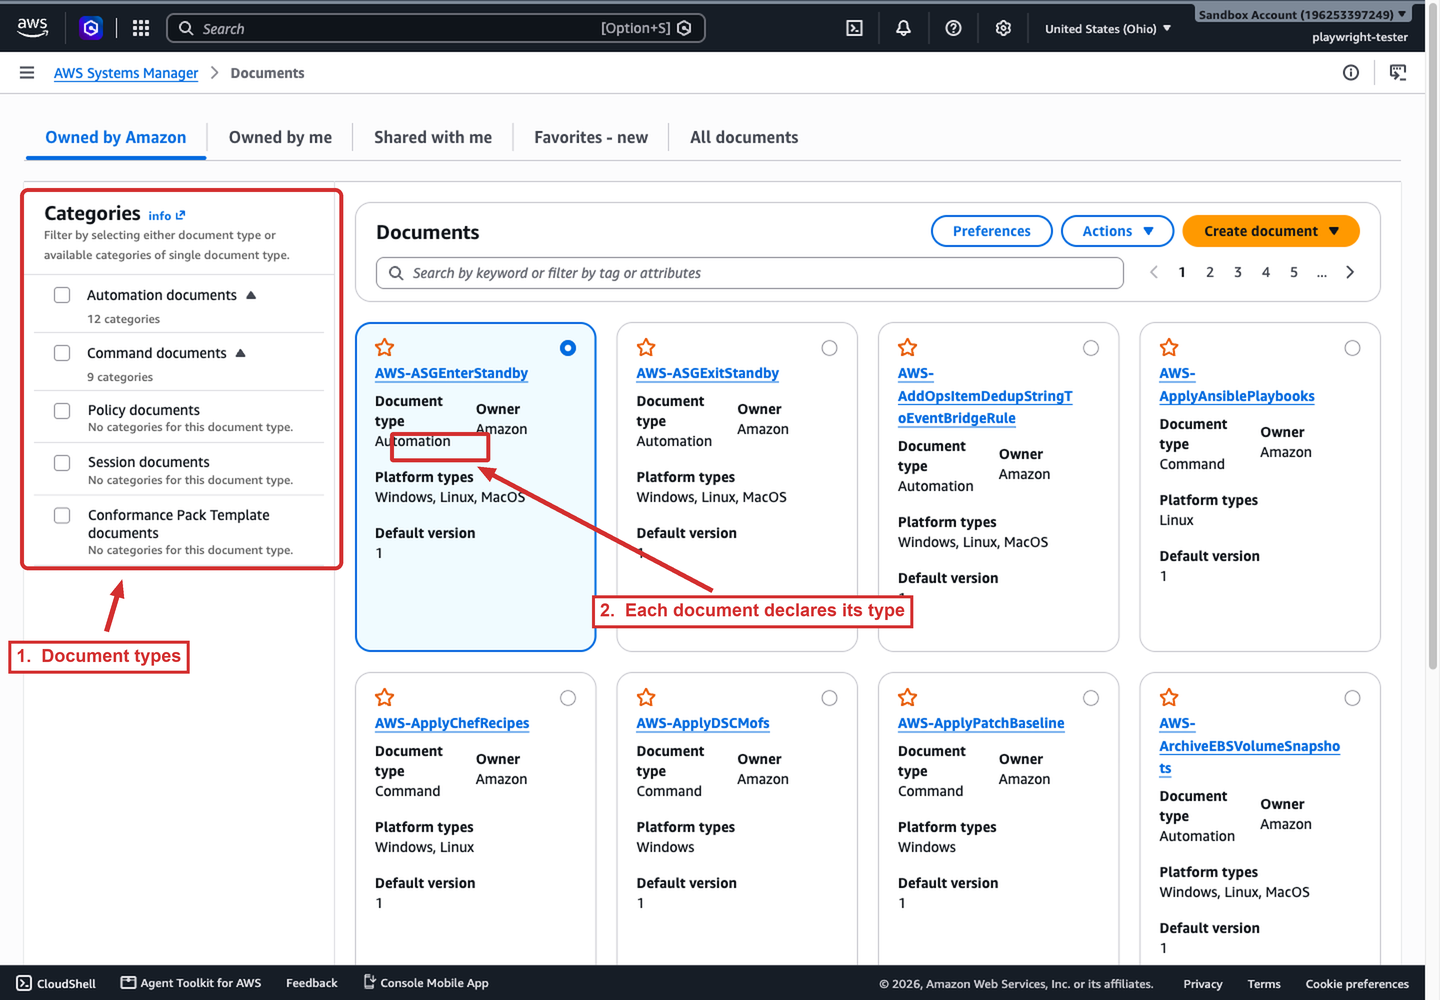
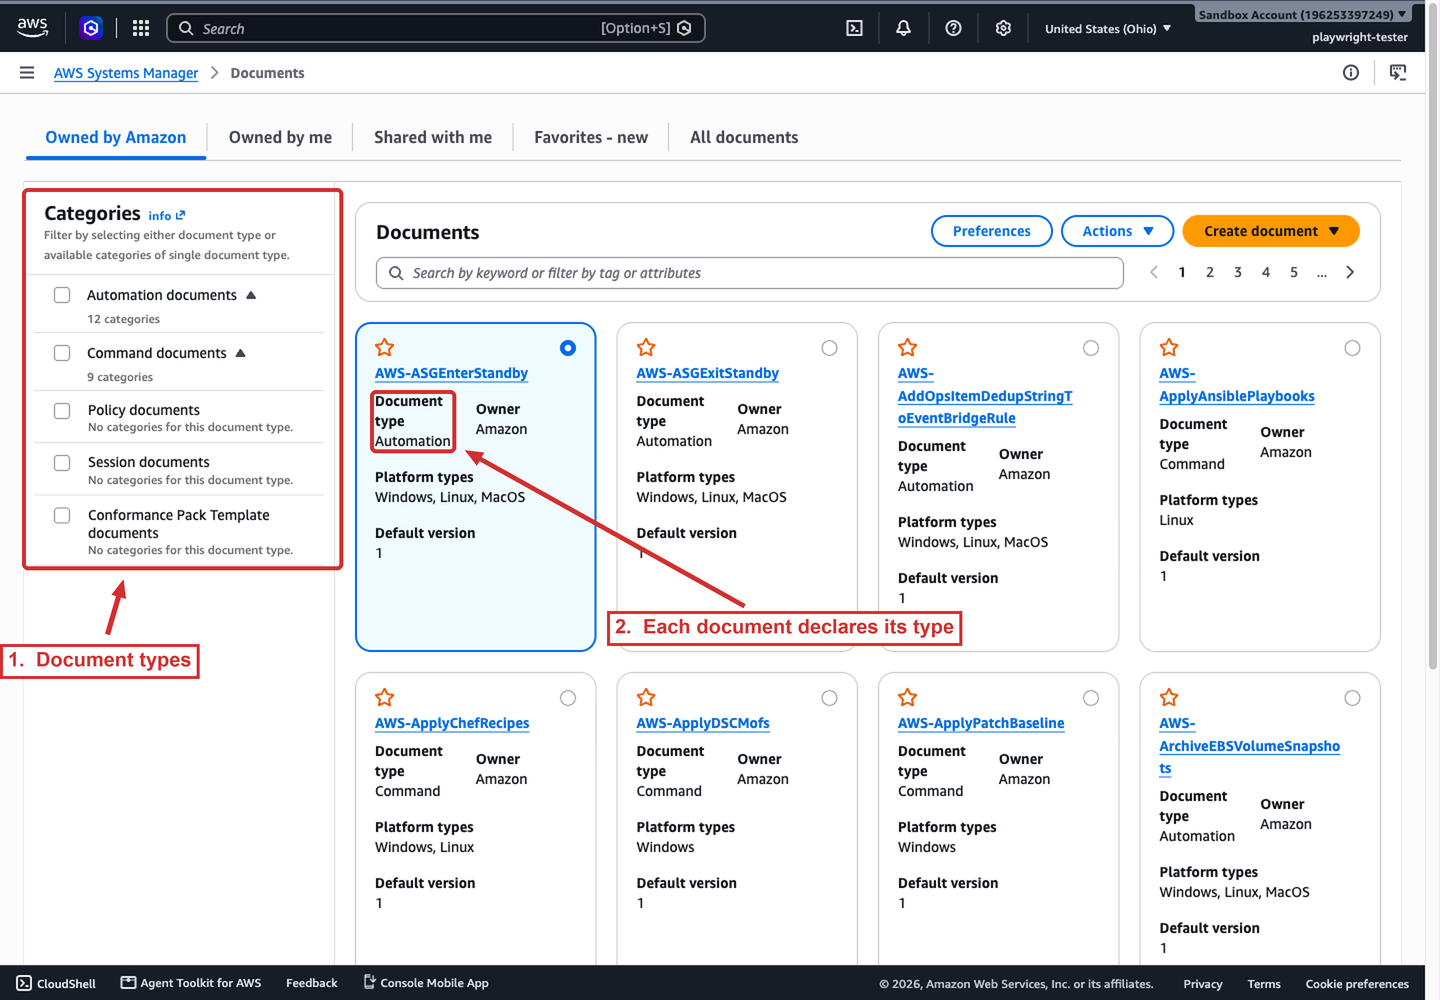
docs: fix Systems Manager screenshot highlights
Documents console: the type highlight now encloses both the label and value (Document type: Automation), not just the value; caption updated to reference the numbered labels per section 67.

Automation execute: the Four execution modes highlight now encloses all four mode cards, not only the top-left one, with the label moved above the block.

Changed region(s): [[0.375, 0.496, 0.6875, 0.651], [0.0, 0.589, 0.1562, 0.682], [0.25, 0.372, 0.375, 0.496]]

diff --git a/02-services/10-management-governance/15-systems-manager/06-change-management.md b/02-services/10-management-governance/15-systems-manager/06-change-management.md
@@ -16,7 +16,7 @@ The Documents console lists the documents you can run, filtered by who owns them
 
 ![Documents console showing document types and Amazon-owned documents](../../../assets/images/screenshots/ssm/04-documents-types.png)
 
-*The Documents console, filtered to Amazon-owned documents. The Categories panel on the left filters by document type (Automation, Command, Policy, Session, and Compliance Pack Template), and each card states its type, owner, platform types, and default version. `AWS-ASGEnterStandby` is an Automation document; `AWS-ApplyChefRecipes` below it is a Command document.*
+*The Documents console, filtered to `Owned by Amazon`. The **Categories** panel (1) filters the list by document type (Automation, Command, Policy, Session, and Compliance Pack Template), and each card states its own metadata (2): the type, the owner, the platform types, and a default version. The selected `AWS-ASGEnterStandby` declares `Document type: Automation`, and `AWS-ApplyChefRecipes` below it declares `Command`.*
 
 ## Automation
 
